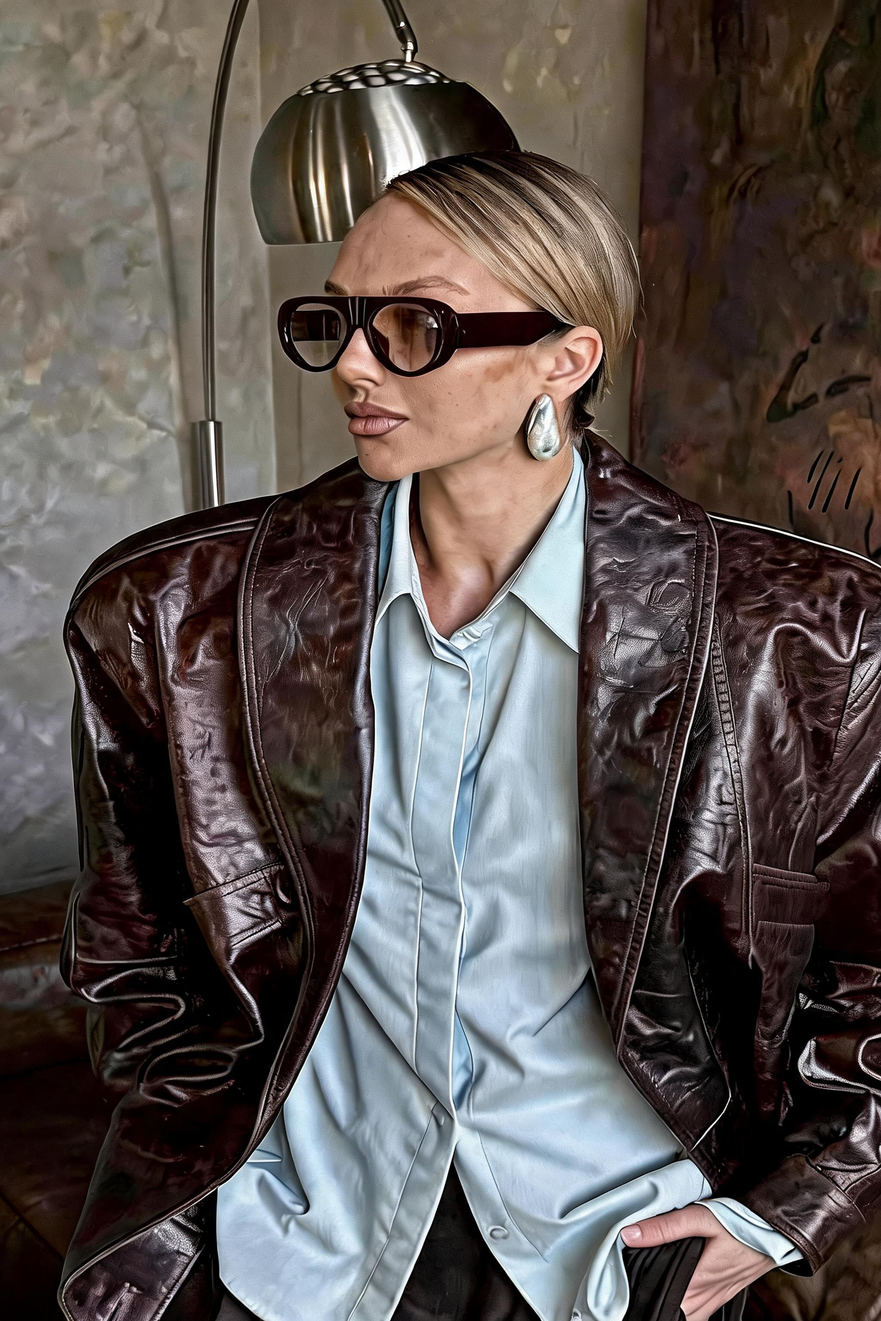
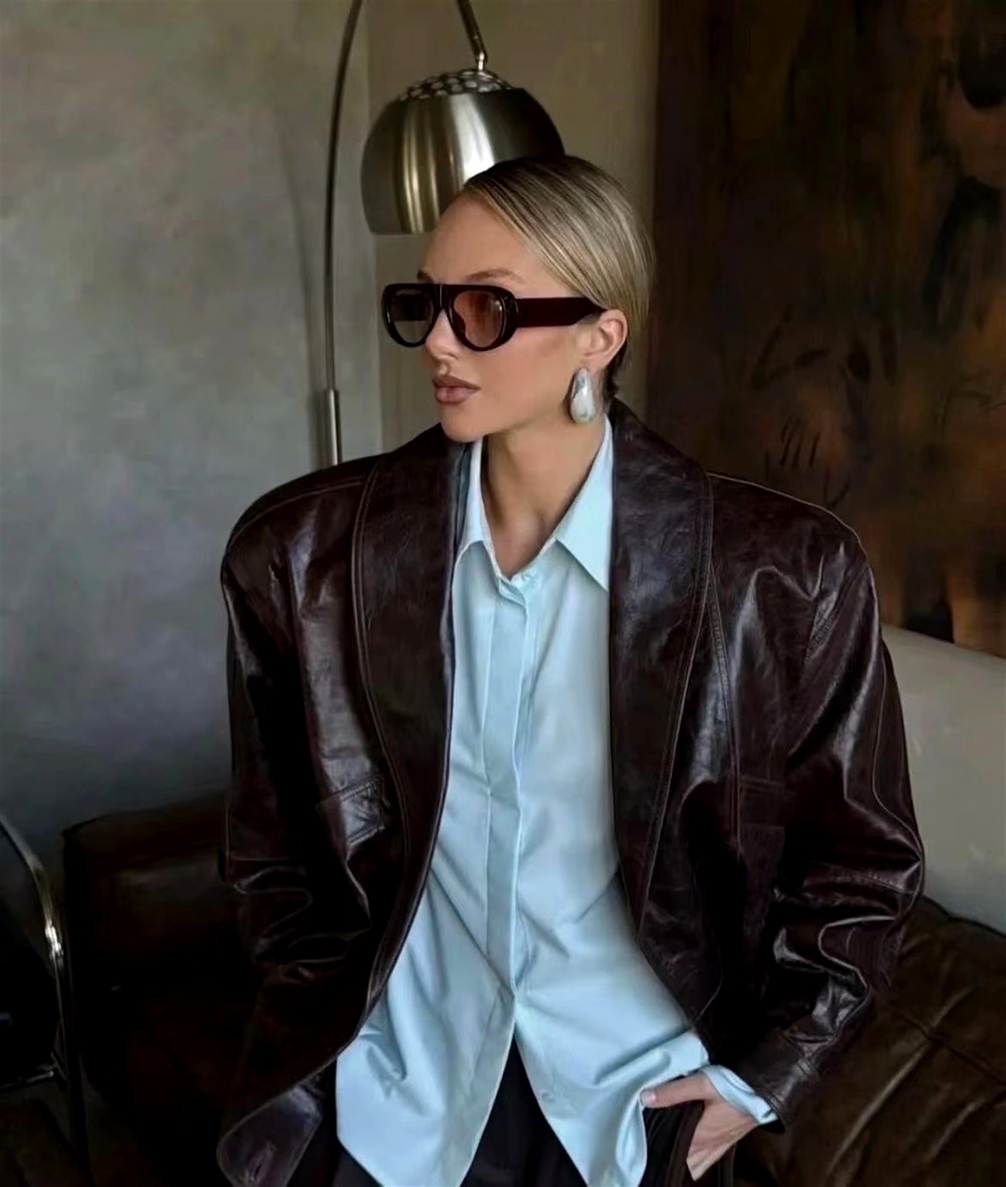
壁纸换回原图放大锐化版, 不再变形

diff --git a/ap-store/index.html b/ap-store/index.html
@@ -1,10 +1,10 @@
-<!DOCTYPE html>
+<!DOCTYPE html>
 <html lang="zh-CN">
 <head>
 <meta charset="UTF-8">
 <meta name="viewport" content="width=device-width, initial-scale=1.0, maximum-scale=1.0">
 <link rel="icon" href="data:,">
-<title>AP · 设计师品牌集合店</title>
+<title>AP 路 璁捐甯堝搧鐗岄泦鍚堝簵</title>
 <style>
   :root{
     --paper:#F1EBE3;
@@ -29,7 +29,7 @@
   button{font-family:inherit;cursor:pointer;border:none;background:none;color:inherit}
   img{display:block;max-width:100%}
 
-  /* ===== 顶栏 ===== */
+  /* ===== 椤舵爮 ===== */
   .topbar{
     position:fixed;top:0;left:0;right:0;z-index:60;
     display:flex;align-items:center;justify-content:space-between;
@@ -45,8 +45,8 @@
   .topbar .contact{font-size:12px;color:#F5EDE2;letter-spacing:.12em;padding:8px 14px;border:1px solid rgba(245,237,226,.35);border-radius:999px;transition:all .25s}
   .topbar .contact:hover{background:rgba(245,237,226,.12)}
 
-  /* ===== 首页壁纸 ===== */
-  .hero{position:relative;width:100%;height:86vh;min-height:520px;overflow:hidden;background:#241C14;background-image:url('images/hero.jpg?v=4');background-size:cover;background-position:center 22%;background-repeat:no-repeat}
+  /* ===== 棣栭〉澹佺焊 ===== */
+  .hero{position:relative;width:100%;height:86vh;min-height:520px;overflow:hidden;background:#241C14;background-image:url('images/hero.jpg?v=5');background-size:cover;background-position:center 22%;background-repeat:no-repeat}
   .hero .shade{position:absolute;inset:0;background:linear-gradient(180deg, rgba(18,13,9,.35) 0%, rgba(18,13,9,.05) 40%, rgba(18,13,9,.75) 100%)}
   .hero .hero-inner{position:absolute;left:0;right:0;bottom:0;padding:0 24px 30px;color:#F5EDE2}
   .hero .eyebrow{font-size:11px;letter-spacing:.42em;color:rgba(198,161,91,.95);margin-bottom:12px}
@@ -57,14 +57,14 @@
 
   main{max-width:1120px;margin:0 auto;padding:0 16px 70px}
 
-  /* ===== 分类筛选 ===== */
+  /* ===== 鍒嗙被绛涢€?===== */
   .filters{position:sticky;top:0;z-index:50;background:rgba(241,235,227,.93);backdrop-filter:blur(10px);padding:14px 0 12px;margin-bottom:18px;border-bottom:1px solid var(--line)}
   .filters .row{display:flex;gap:8px;overflow-x:auto;scrollbar-width:none;-webkit-overflow-scrolling:touch;padding:2px}
   .filters .row::-webkit-scrollbar{display:none}
   .filter-chip{flex:none;padding:9px 20px;border-radius:999px;font-size:13px;color:var(--ink-soft);background:#fff;border:1px solid var(--line);transition:all .25s;letter-spacing:.08em}
   .filter-chip.on{background:#2A231D;color:#F5EDE2;border-color:#2A231D;box-shadow:0 4px 14px rgba(42,35,29,.25)}
 
-  /* ===== 商品双栏网格 ===== */
+  /* ===== 鍟嗗搧鍙屾爮缃戞牸 ===== */
   .section-eyebrow{display:flex;align-items:center;gap:10px;margin:34px 0 16px}
   .section-eyebrow .line{flex:1;height:1px;background:var(--line)}
   .section-eyebrow span{font-size:11px;letter-spacing:.34em;color:var(--muted)}
@@ -81,13 +81,13 @@
   .p-card .meta .tags{display:flex;gap:5px;margin-top:8px;flex-wrap:wrap}
   .p-card .meta .tags span{font-size:10px;padding:2px 8px;border-radius:999px;background:#F0E7DA;color:#8A6F52}
 
-  /* 福利横幅 */
+  /* 绂忓埄妯箙 */
   .banner{margin-top:26px;background:linear-gradient(120deg,#3A2F24,#55402B);color:#EFE3CE;border-radius:var(--radius);padding:22px;position:relative;overflow:hidden}
   .banner::after{content:'';position:absolute;right:-30px;top:-30px;width:140px;height:140px;border-radius:50%;background:rgba(198,161,91,.14)}
   .banner h4{font-family:Georgia,serif;font-size:17px;letter-spacing:.12em;color:#D8B87C}
   .banner p{font-size:13px;line-height:1.9;margin-top:8px;color:rgba(239,227,206,.85)}
 
-  /* ===== 每日搭配 ===== */
+  /* ===== 姣忔棩鎼厤 ===== */
   .look-grid{display:grid;grid-template-columns:repeat(2,1fr);gap:14px}
   .look-card{background:var(--card);border:1px solid var(--line);border-radius:var(--radius);overflow:hidden;cursor:pointer;transition:transform .3s ease, box-shadow .3s ease}
   .look-card:hover{transform:translateY(-4px);box-shadow:var(--shadow)}
@@ -99,7 +99,7 @@
   .look-card .meta h4{font-size:14px;font-weight:600;font-family:Georgia,"Songti SC",serif;letter-spacing:.03em}
   .look-card .meta p{font-size:12px;color:var(--muted);margin-top:4px;line-height:1.55;display:-webkit-box;-webkit-line-clamp:2;-webkit-box-orient:vertical;overflow:hidden}
 
-  /* ===== 店铺信息 ===== */
+  /* ===== 搴楅摵淇℃伅 ===== */
   .info-section{margin-top:8px;display:grid;grid-template-columns:1fr;gap:12px}
   .info-card{background:var(--card);border:1px solid var(--line);border-radius:var(--radius);padding:18px 20px;display:flex;align-items:center;gap:14px}
   .info-card .icon{width:44px;height:44px;border-radius:12px;flex:none;display:flex;align-items:center;justify-content:center;font-size:20px;background:#F1E7D8}
@@ -111,7 +111,7 @@
   footer{margin:0 auto;padding:0 16px 36px;color:var(--muted);font-size:11px;text-align:center;line-height:1.9;letter-spacing:.06em}
   footer a{color:var(--muted);text-decoration:none}
 
-  /* ===== 抽屉 ===== */
+  /* ===== 鎶藉眽 ===== */
   .mask{position:fixed;inset:0;background:rgba(30,22,15,.5);opacity:0;transition:opacity .3s ease;z-index:90;backdrop-filter:blur(4px);pointer-events:none}
   .mask.show{opacity:1;pointer-events:auto}
   .drawer{position:fixed;top:0;right:0;bottom:0;width:min(460px,92vw);background:#FCFAF5;z-index:95;transform:translateX(105%);transition:transform .42s cubic-bezier(.22,.61,.28,1);box-shadow:-24px 0 70px rgba(40,25,10,.22);display:flex;flex-direction:column}
@@ -132,7 +132,7 @@
   .drawer-foot button{width:100%;padding:14px;border-radius:999px;background:#2A231E;color:#F5EDE2;font-size:15px;letter-spacing:.14em;transition:all .2s}
   .drawer-foot button:hover{background:#14100C}
 
-  /* 搭配详情 */
+  /* 鎼厤璇︽儏 */
   .look-detail{display:none;position:fixed;inset:0;background:var(--paper);z-index:110;overflow-y:auto;-webkit-overflow-scrolling:touch}
   .look-detail.show{display:block}
   .look-detail .hero-img{position:relative}
@@ -164,19 +164,19 @@
 <header class="topbar" id="topbar">
   <div class="brand">
     <div class="logo">A<i>P</i></div>
-    <small>设计师品牌集合店</small>
+    <small>璁捐甯堝搧鐗岄泦鍚堝簵</small>
   </div>
-  <button class="contact" onclick="document.getElementById('store-info').scrollIntoView({behavior:'smooth'})">联系店铺</button>
+  <button class="contact" onclick="document.getElementById('store-info').scrollIntoView({behavior:'smooth'})">鑱旂郴搴楅摵</button>
 </header>
 
 <div class="hero">
   <div class="shade"></div>
   <div class="hero-inner">
     <div class="eyebrow">ALWAYS PRETTY</div>
-    <h1>AP 设计师品牌集合店</h1>
-    <div class="sub">精选好衣 · 每日搭配</div>
+    <h1>AP 璁捐甯堝搧鐗岄泦鍚堝簵</h1>
+    <div class="sub">绮鹃€夊ソ琛?路 姣忔棩鎼厤</div>
   </div>
-  <div class="scroll-hint">⌄</div>
+  <div class="scroll-hint">鈱?/div>
 </div>
 
 <main>
@@ -184,31 +184,31 @@
   <div class="grid" id="productGrid"></div>
   <div class="banner" id="benefitBanner" style="display:none"></div>
 
-  <div class="section-eyebrow"><span>每日搭配</span><div class="line"></div><span>DAILY LOOKS</span></div>
+  <div class="section-eyebrow"><span>姣忔棩鎼厤</span><div class="line"></div><span>DAILY LOOKS</span></div>
   <div class="look-grid" id="lookGrid"></div>
 
-  <div class="section-eyebrow" id="store-info"><span>联系店铺</span><div class="line"></div></div>
+  <div class="section-eyebrow" id="store-info"><span>鑱旂郴搴楅摵</span><div class="line"></div></div>
   <div class="info-section">
-    <div class="info-card"><div class="icon">📍</div><div><h4>店铺地址</h4><p class="placeholder" id="infoAddr">（待填写）</p></div></div>
-    <div class="info-card"><div class="icon">📞</div><div><h4>联系电话</h4><p class="placeholder" id="infoTel">（待填写）</p></div></div>
-    <div class="info-card"><div class="icon">💬</div><div><h4>微信群 / 客服微信</h4><p class="placeholder" id="infoWx">（待填写）</p></div><div class="qr-placeholder" id="qrInfo">二维码<br>待上传</div></div>
+    <div class="info-card"><div class="icon">馃搷</div><div><h4>搴楅摵鍦板潃</h4><p class="placeholder" id="infoAddr">锛堝緟濉啓锛?/p></div></div>
+    <div class="info-card"><div class="icon">馃摓</div><div><h4>鑱旂郴鐢佃瘽</h4><p class="placeholder" id="infoTel">锛堝緟濉啓锛?/p></div></div>
+    <div class="info-card"><div class="icon">馃挰</div><div><h4>寰俊缇?/ 瀹㈡湇寰俊</h4><p class="placeholder" id="infoWx">锛堝緟濉啓锛?/p></div><div class="qr-placeholder" id="qrInfo">浜岀淮鐮?br>寰呬笂浼?/div></div>
   </div>
 </main>
 
 <footer>
-  AP · 设计师品牌集合店 · <a href="admin.html">管理</a><br>
-  到店试穿 · 每日上新
+  AP 路 璁捐甯堝搧鐗岄泦鍚堝簵 路 <a href="admin.html">绠＄悊</a><br>
+  鍒板簵璇曠┛ 路 姣忔棩涓婃柊
 </footer>
 
 <div class="mask" id="mask"></div>
 <aside class="drawer" id="drawer" aria-hidden="true">
   <div class="drawer-head" id="drawerHead"></div>
   <div class="drawer-body" id="drawerBody"></div>
-  <div class="drawer-foot"><button id="drawerClose">返回继续逛</button></div>
+  <div class="drawer-foot"><button id="drawerClose">杩斿洖缁х画閫?/button></div>
 </aside>
 
 <div class="look-detail" id="lookDetail">
-  <button class="close" id="lookClose" aria-label="关闭">✕</button>
+  <button class="close" id="lookClose" aria-label="鍏抽棴">鉁?/button>
   <div id="lookDetailBody"></div>
 </div>
 
@@ -217,13 +217,13 @@ const $ = s => document.querySelector(s);
 let DATA = null;
 let currentFilter = 'all';
 const FILTERS = [
-  { id:'all',   label:'全部' },
-  { id:'new',   label:'本周上新' },
-  { id:'tops',  label:'上装' },
-  { id:'skirts',label:'裙装' },
-  { id:'pants', label:'裤装' }
+  { id:'all',   label:'鍏ㄩ儴' },
+  { id:'new',   label:'鏈懆涓婃柊' },
+  { id:'tops',  label:'涓婅' },
+  { id:'skirts',label:'瑁欒' },
+  { id:'pants', label:'瑁よ' }
 ];
-const ZONE_META = { new:{kicker:'本周上新'}, tops:{kicker:'上装区'}, skirts:{kicker:'裙装区'}, pants:{kicker:'裤装区'} };
+const ZONE_META = { new:{kicker:'鏈懆涓婃柊'}, tops:{kicker:'涓婅鍖?}, skirts:{kicker:'瑁欒鍖?}, pants:{kicker:'瑁よ鍖?} };
 
 async function loadData(){
   try {
@@ -231,8 +231,8 @@ async function loadData(){
     DATA = await r.json();
     renderAll();
   } catch(e){
-    console.error('数据加载失败', e);
-    document.getElementById('productGrid').innerHTML = '<p style="color:#8A7C6E;padding:30px;text-align:center">数据加载失败，请稍后刷新</p>';
+    console.error('鏁版嵁鍔犺浇澶辫触', e);
+    document.getElementById('productGrid').innerHTML = '<p style="color:#8A7C6E;padding:30px;text-align:center">鏁版嵁鍔犺浇澶辫触锛岃绋嶅悗鍒锋柊</p>';
   }
 }
 
@@ -255,7 +255,7 @@ function renderGrid(){
   let items;
   if(currentFilter === 'all') items = allItems();
   else items = (DATA.zones[currentFilter] && DATA.zones[currentFilter].items || []).map(it => ({...it, zone:currentFilter}));
-  if(!items.length){ $('#productGrid').innerHTML = '<p style="color:#8A7C6E;padding:30px;text-align:center">这个区还没有商品</p>'; return; }
+  if(!items.length){ $('#productGrid').innerHTML = '<p style="color:#8A7C6E;padding:30px;text-align:center">杩欎釜鍖鸿繕娌℃湁鍟嗗搧</p>'; return; }
   $('#productGrid').innerHTML = items.map(it => `
     <div class="p-card" onclick="openProduct('${it.zone}',${findIndex(it.zone, it)})">
       <div class="thumb"><img src="${it._local || it.img}" alt="${it.t}" loading="lazy">${it.tags&&it.tags[0]?`<span class="badge">${it.tags[0]}</span>`:''}</div>
@@ -277,7 +277,7 @@ function openProduct(zone, idx){
     <div class="d-title">${it.t}</div>
     <div class="d-desc">${it.d}</div>
     <div class="d-tags">${(it.tags||[]).map(x=>`<span>${x}</span>`).join('')}</div>
-    <div class="d-more">喜欢可到店试穿 · 欢迎到店选购</div>`;
+    <div class="d-more">鍠滄鍙埌搴楄瘯绌?路 娆㈣繋鍒板簵閫夎喘</div>`;
   openDrawer();
 }
 function openDrawer(){
@@ -307,11 +307,11 @@ function openLook(i){
   $('#lookDetailBody').innerHTML = `
     <div class="hero-img"><img src="${l._local||l.img}" alt="${l.name}"></div>
     <div class="body">
-      <div class="day">${l.day} · 每日搭配</div>
+      <div class="day">${l.day} 路 姣忔棩鎼厤</div>
       <h2>${l.name}</h2>
       <p class="sub">${l.sub}</p>
-      <div class="items">${l.items.map(x=>`<div class="item"><b>${x}</b><span>可在店内试穿</span></div>`).join('')}</div>
-      <div class="tip">搭配小抄：${l.tip}</div>
+      <div class="items">${l.items.map(x=>`<div class="item"><b>${x}</b><span>鍙湪搴楀唴璇曠┛</span></div>`).join('')}</div>
+      <div class="tip">鎼厤灏忔妱锛?{l.tip}</div>
     </div>`;
   $('#lookDetail').classList.add('show');
 }
@@ -322,7 +322,7 @@ function renderBanner(){
   if(note){
     const b = $('#benefitBanner');
     b.style.display = 'block';
-    b.innerHTML = `<h4>本周到店福利</h4><p>${note.replace(/\n/g,'<br>')}</p>`;
+    b.innerHTML = `<h4>鏈懆鍒板簵绂忓埄</h4><p>${note.replace(/\n/g,'<br>')}</p>`;
   }
 }
 function renderStoreInfo(){
@@ -333,7 +333,7 @@ function renderStoreInfo(){
   if(s.wechatQR){ $('#qrInfo').innerHTML = `<img src="${s.wechatQR}" style="width:100%;height:100%;object-fit:cover;border-radius:8px">`; $('#qrInfo').style.border='none'; }
 }
 
-/* 微信返回键：先关抽屉/详情，不退出页面 */
+/* 寰俊杩斿洖閿細鍏堝叧鎶藉眽/璇︽儏锛屼笉閫€鍑洪〉闈?*/
 window.addEventListener('popstate', () => {
   if($('#drawer').classList.contains('show')){ closeDrawer(); return; }
   if($('#lookDetail').classList.contains('show')){ $('#lookDetail').classList.remove('show'); return; }
